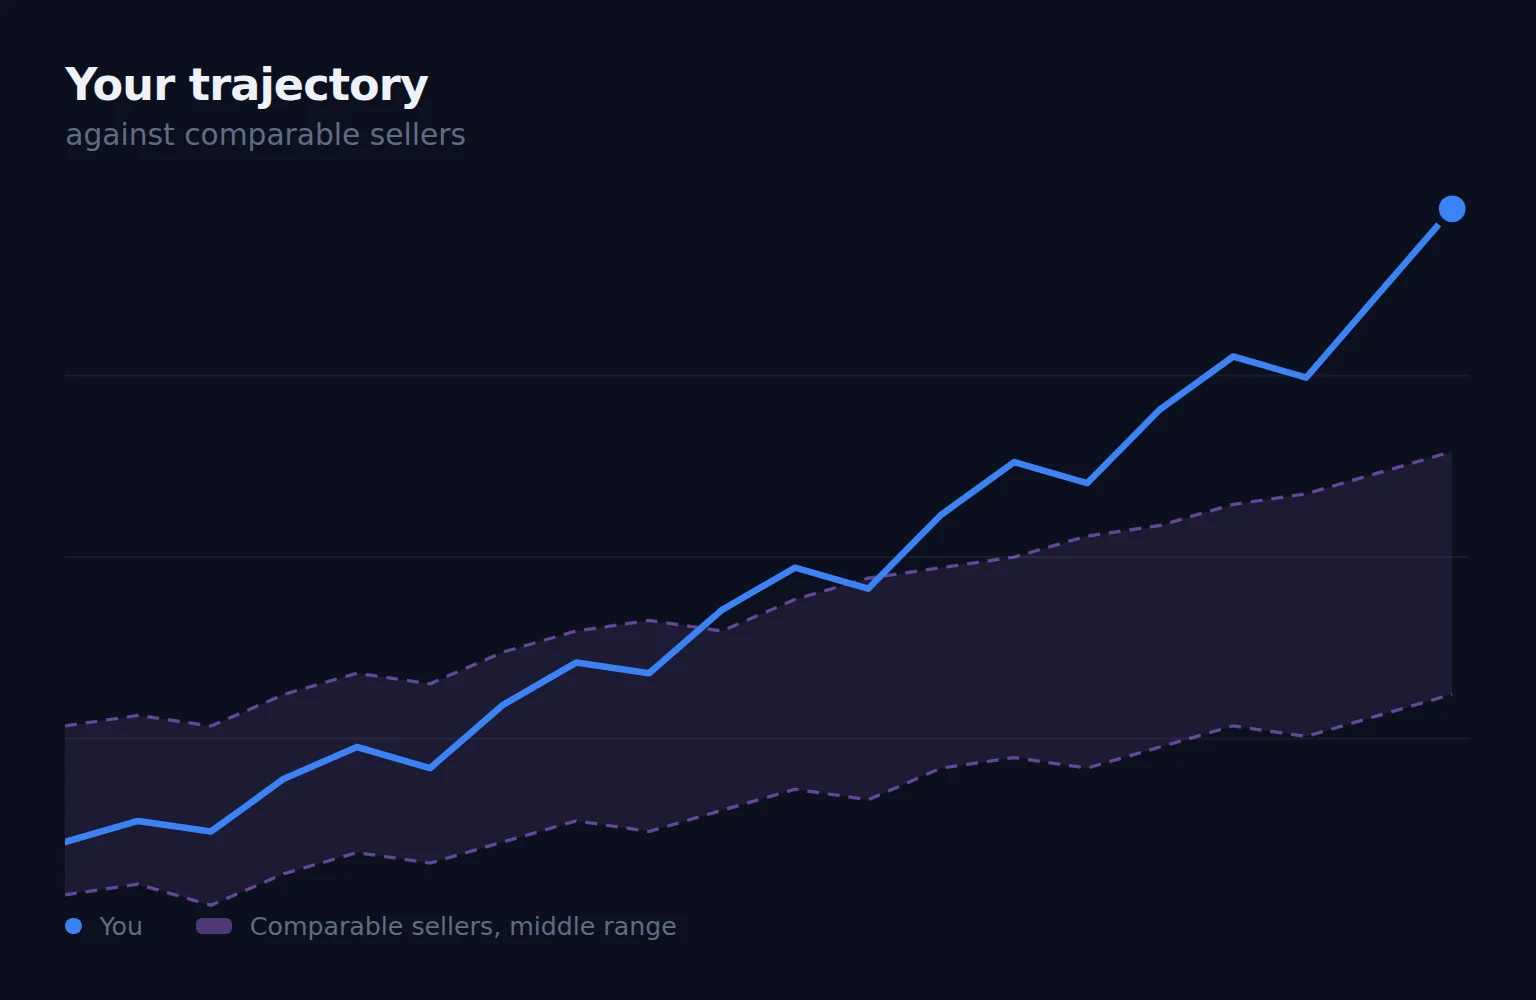
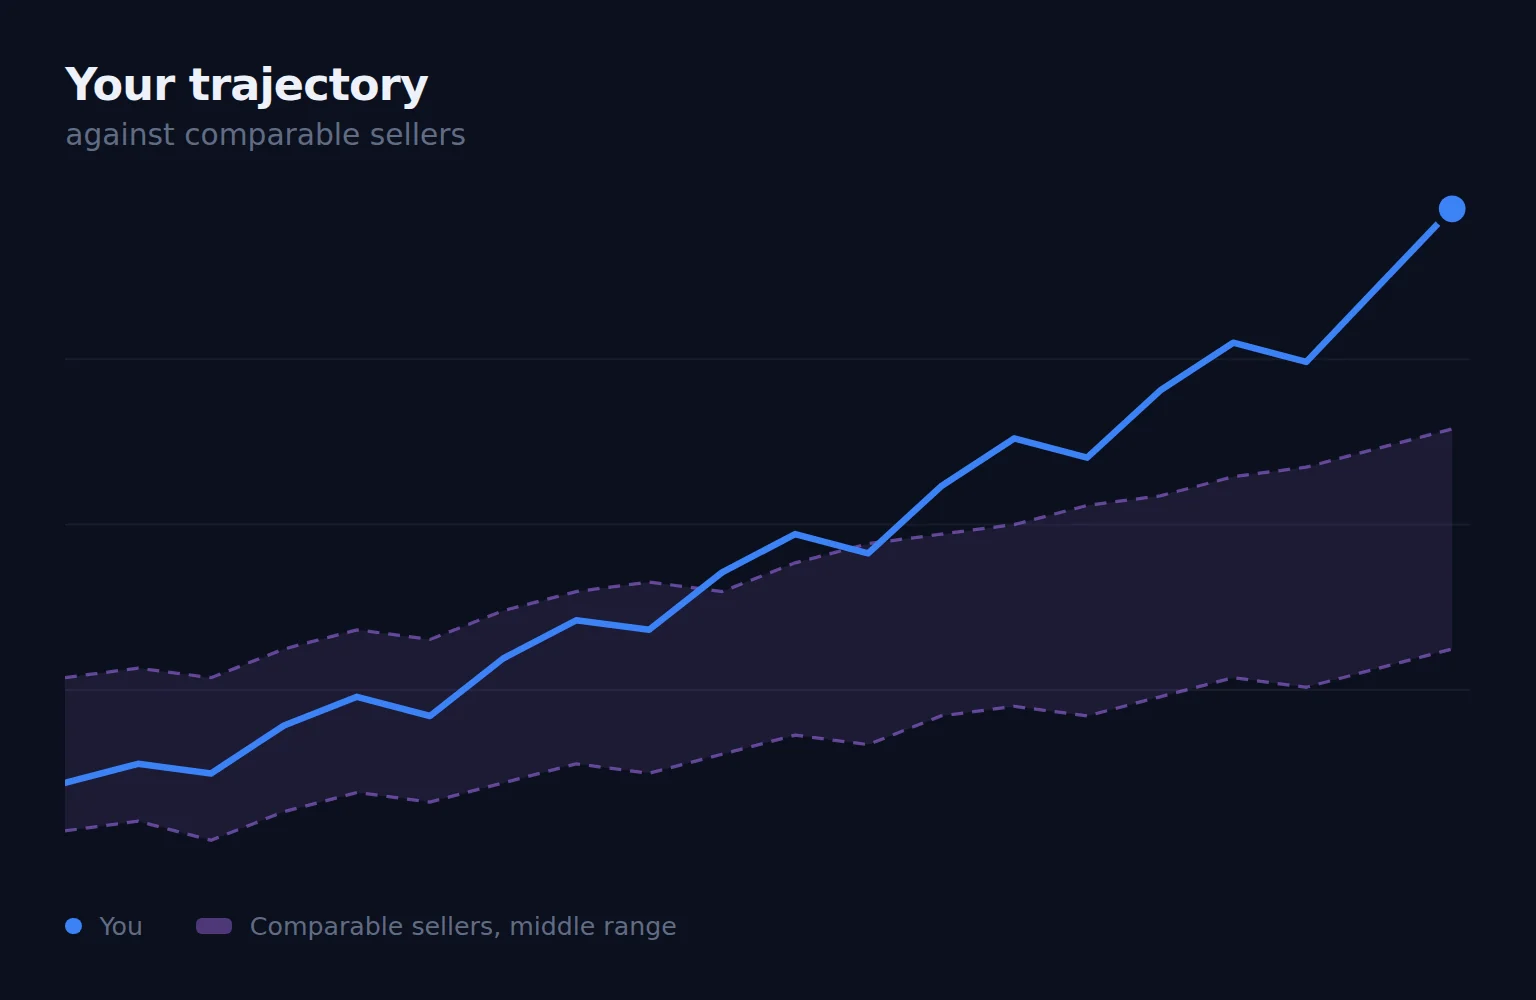
Stop the generator measuring a box it is about to shrink
about-sales-vs-reality drew its revenue line straight across the three
small-multiple cards below it. Two causes, both in the generator.

fit() writes the SVG at a fixed pixel height taken from the plot box at
the moment it is called. g3 called it before appending the row of cards,
so the box was measured at full height and then shrank; the absolutely
positioned SVG kept its old height and spilled over the cards. g7 and
g18 had the same shape with a legend instead of cards - a smaller spill,
29px, but the same bug. All three now build the trailing sibling, fill
it, and only then measure.

Second, the page loads its webfont with @import and nothing waited for
it. Header height, and therefore every plot height under it, differed
between renders - which is why a contact sheet reviewed earlier looked
right and the shipped frame did not. The script is now a module and
awaits document.fonts.ready before anything measures.

A guard now records any SVG larger than its parent so a spill cannot
ship silently again. All 24 compositions render clean under it, and two
consecutive runs are byte-identical. Re-rendering every graphic changed
exactly these three files; the other 21 are unchanged pixel for pixel.

diff --git a/assets/src/frame.html b/assets/src/frame.html
@@ -33,7 +33,7 @@ svg{display:block}
 <body>
 <div id="stage"><div class="pad" id="pad"></div></div>
 
-<script>
+<script type="module">
 const BLUE='#3B82F6', AMBER='#C9820A', VIOLET='#A971F7', RED='#F0435C';
 /* Teal is only used where three series must be told apart at once. Blue+violet
    fails the validator all-pairs at deltaE 0.6 under protanopia; blue/amber/teal
@@ -54,6 +54,12 @@ stage.style.width=SPEC.w+'px'; stage.style.height=SPEC.h+'px';
 document.body.style.width=SPEC.w+'px'; document.body.style.height=SPEC.h+'px';
 document.documentElement.style.setProperty('--k',SPEC.k);
 const K=SPEC.k, px=v=>v*K;
+
+/* Nothing may measure until the webfont has landed. With @import the font
+   arrives after first layout, so the header height - and every fit() under it -
+   differed from render to render. That non-determinism is how a broken frame
+   shipped after a good one was reviewed. */
+await document.fonts.ready;
 
 /* fit() measures the box FIRST so one viewBox unit is one CSS pixel. That is
    what lets absolutely positioned HTML labels land exactly on the shapes the
@@ -146,7 +152,12 @@ function g2(){
 /* ══ 3 — a healthy headline, three series that disagree ══════════════ */
 function g3(){
   head('Revenue','Trailing 24 months','+64%','24-month change');
-  const box=plot('1 1 auto'); const {s,W,H}=fit(box);
+  const box=plot('1 1 auto');
+  const row=document.createElement('div');
+  row.style.cssText=`display:grid;grid-template-columns:repeat(3,1fr);gap:${px(11)}px;
+    height:${px(112)}px;flex:none;margin-top:${px(13)}px`;
+  pad.appendChild(row);          // appended first: fit() must measure the FINAL box
+  const {s,W,H}=fit(box);
   const REV=[100,101,99,104,106,105,110,113,112,118,121,120,126,129,133,131,138,142,140,147,152,155,159,164];
   for(let i=1;i<=3;i++){const y=(H-px(9))*(i/4)+px(2);
     s.appendChild(el('line',{x1:0,x2:W,y1:y,y2:y,stroke:GRID,'stroke-width':px(.7)}));}
@@ -159,10 +170,6 @@ function g3(){
   s.appendChild(el('path',{d:dOf(P),fill:'none',stroke:BLUE,'stroke-width':px(2.2),'stroke-linecap':'round','stroke-linejoin':'round'}));
   endDot(s,P,BLUE);
 
-  const row=document.createElement('div');
-  row.style.cssText=`display:grid;grid-template-columns:repeat(3,1fr);gap:${px(11)}px;
-    height:${px(112)}px;flex:none;margin-top:${px(13)}px`;
-  pad.appendChild(row);
   [['Gross margin','31%','22%',AMBER,'↓',[31,31,30,30,30,29,29,29,28,28,27,27,27,26,26,25,25,24,24,23,23,23,22,22],'percent of revenue'],
    ['Stock cover','9.4w','3.1w',VIOLET,'↓',[9.4,9.3,9.1,8.8,8.6,8.1,7.9,7.4,7.2,6.8,6.5,6.1,5.9,5.5,5.2,4.9,4.6,4.3,4.1,3.9,3.6,3.4,3.2,3.1],'weeks of cover'],
    ['Ad spend / revenue','11%','24%',RED,'↑',[11,11,12,12,13,13,14,14,15,16,16,17,17,18,19,19,20,21,21,22,22,23,23,24],'percent of revenue']
@@ -279,7 +286,16 @@ function g6(){
 /* ══ 7 — your trajectory against comparable sellers ══════════════════ */
 function g7(){
   head('Your trajectory','against comparable sellers');
-  const box=plot(); const {s,W,H}=fit(box);
+  const box=plot();
+  const lg=document.createElement('div');
+  lg.style.cssText=`flex:none;display:flex;gap:${px(18)}px;margin-top:${px(12)}px`;
+  lg.innerHTML=`<span style="display:flex;align-items:center;gap:${px(6)}px">
+      <span class="dot" style="background:${BLUE}"></span><span class="t-mut">You</span></span>
+    <span style="display:flex;align-items:center;gap:${px(6)}px">
+      <span style="width:${px(12)}px;height:${px(5.5)}px;border-radius:${px(2)}px;background:rgba(169,113,247,.42)"></span>
+      <span class="t-mut">Comparable sellers, middle range</span></span>`;
+  pad.appendChild(lg);
+  const {s,W,H}=fit(box);
   const hi=[58,59,58,61,63,62,65,67,68,67,70,72,73,74,76,77,79,80,82,84],
         lo=[42,43,41,44,46,45,47,49,48,50,52,51,54,55,54,56,58,57,59,61],
         me=[47,49,48,53,56,54,60,64,63,69,73,71,78,83,81,88,93,91,99,107];
@@ -295,14 +311,6 @@ function g7(){
   const P=me.map((v,i)=>[X(i),Y(v)]);
   s.appendChild(el('path',{d:dOf(P),fill:'none',stroke:BLUE,'stroke-width':px(2.2),'stroke-linecap':'round','stroke-linejoin':'round'}));
   endDot(s,P,BLUE);
-  const lg=document.createElement('div');
-  lg.style.cssText=`flex:none;display:flex;gap:${px(18)}px;margin-top:${px(12)}px`;
-  lg.innerHTML=`<span style="display:flex;align-items:center;gap:${px(6)}px">
-      <span class="dot" style="background:${BLUE}"></span><span class="t-mut">You</span></span>
-    <span style="display:flex;align-items:center;gap:${px(6)}px">
-      <span style="width:${px(12)}px;height:${px(5.5)}px;border-radius:${px(2)}px;background:rgba(169,113,247,.42)"></span>
-      <span class="t-mut">Comparable sellers, middle range</span></span>`;
-  pad.appendChild(lg);
 }
 
 /* ══ 8 — feedback becoming a change ══════════════════════════════════ */
@@ -685,7 +693,14 @@ function g17(){
 /* ══ 18 — Simulations: profitable, and still out of money ═══════════ */
 function g18(){
   head('Profit and cash','fortnight by fortnight');
-  const box=plot(); const {s,W,H}=fit(box);
+  const box=plot();
+  const lg=document.createElement('div');
+  lg.style.cssText=`flex:none;display:flex;gap:${px(18)}px;margin-top:${px(12)}px`;
+  lg.innerHTML=[['Profit',BLUE],['Cash in the bank',AMBER]].map(([t,c])=>
+    `<span style="display:flex;align-items:center;gap:${px(6)}px">
+      <span class="dot" style="background:${c}"></span><span class="t-mut">${t}</span></span>`).join('');
+  pad.appendChild(lg);
+  const {s,W,H}=fit(box);
   const profit=[3,5,6,8,9,11,12,14,15,17,18,20,21,23,24,26,27,29,30,32];
   const cash  =[22,19,14,8,3,-2,-7,-11,-9,-4,2,7,13,18,22,27,31,36,40,45];
   const all=[...profit,...cash], mn=Math.min(...all), mx=Math.max(...all);
@@ -709,12 +724,6 @@ function g18(){
   s.appendChild(el('circle',{cx:X(dipI),cy:Y(cash[dipI]),r:px(4.4),fill:RED}));
   over(box,X(dipI)-px(52),px(2),px(104),px(13),
     `<div class="t-eyb" style="color:${RED};text-align:center;white-space:nowrap">FORTNIGHT 8</div>`);
-  const lg=document.createElement('div');
-  lg.style.cssText=`flex:none;display:flex;gap:${px(18)}px;margin-top:${px(12)}px`;
-  lg.innerHTML=[['Profit',BLUE],['Cash in the bank',AMBER]].map(([t,c])=>
-    `<span style="display:flex;align-items:center;gap:${px(6)}px">
-      <span class="dot" style="background:${c}"></span><span class="t-mut">${t}</span></span>`).join('');
-  pad.appendChild(lg);
 }
 
 /* ══ 19 — Sales: how much of this revenue are you renting ═══════════ */
@@ -941,6 +950,15 @@ function g24(){
 ({1:g1,2:g2,3:g3,4:g4,5:g5,6:g6,7:g7,8:g8,9:g9,10:g10,11:g11,12:g12,
   13:g13,14:g14,15:g15,16:g16,17:g17,18:g18,19:g19,20:g20,21:g21,22:g22,
   23:g23,24:g24})[id]();
+/* Guard: no SVG may exceed the box it was fitted to. This is the exact failure
+   that shipped - a stale measurement leaving the chart drawn over its siblings. */
+const spill=[...document.querySelectorAll('svg')].filter(sv=>{
+  const p=sv.parentElement; if(!p) return false;
+  const a=sv.getBoundingClientRect(), b=p.getBoundingClientRect();
+  return a.height>b.height+1 || a.width>b.width+1 || a.bottom>b.bottom+1;
+}).map(sv=>{const a=sv.getBoundingClientRect(),b=sv.parentElement.getBoundingClientRect();
+  return `svg ${Math.round(a.width)}x${Math.round(a.height)} in box ${Math.round(b.width)}x${Math.round(b.height)}`;});
+if(spill.length) document.body.dataset.spill=JSON.stringify(spill);
 document.body.dataset.ready='1';
 </script>
 </body></html>
